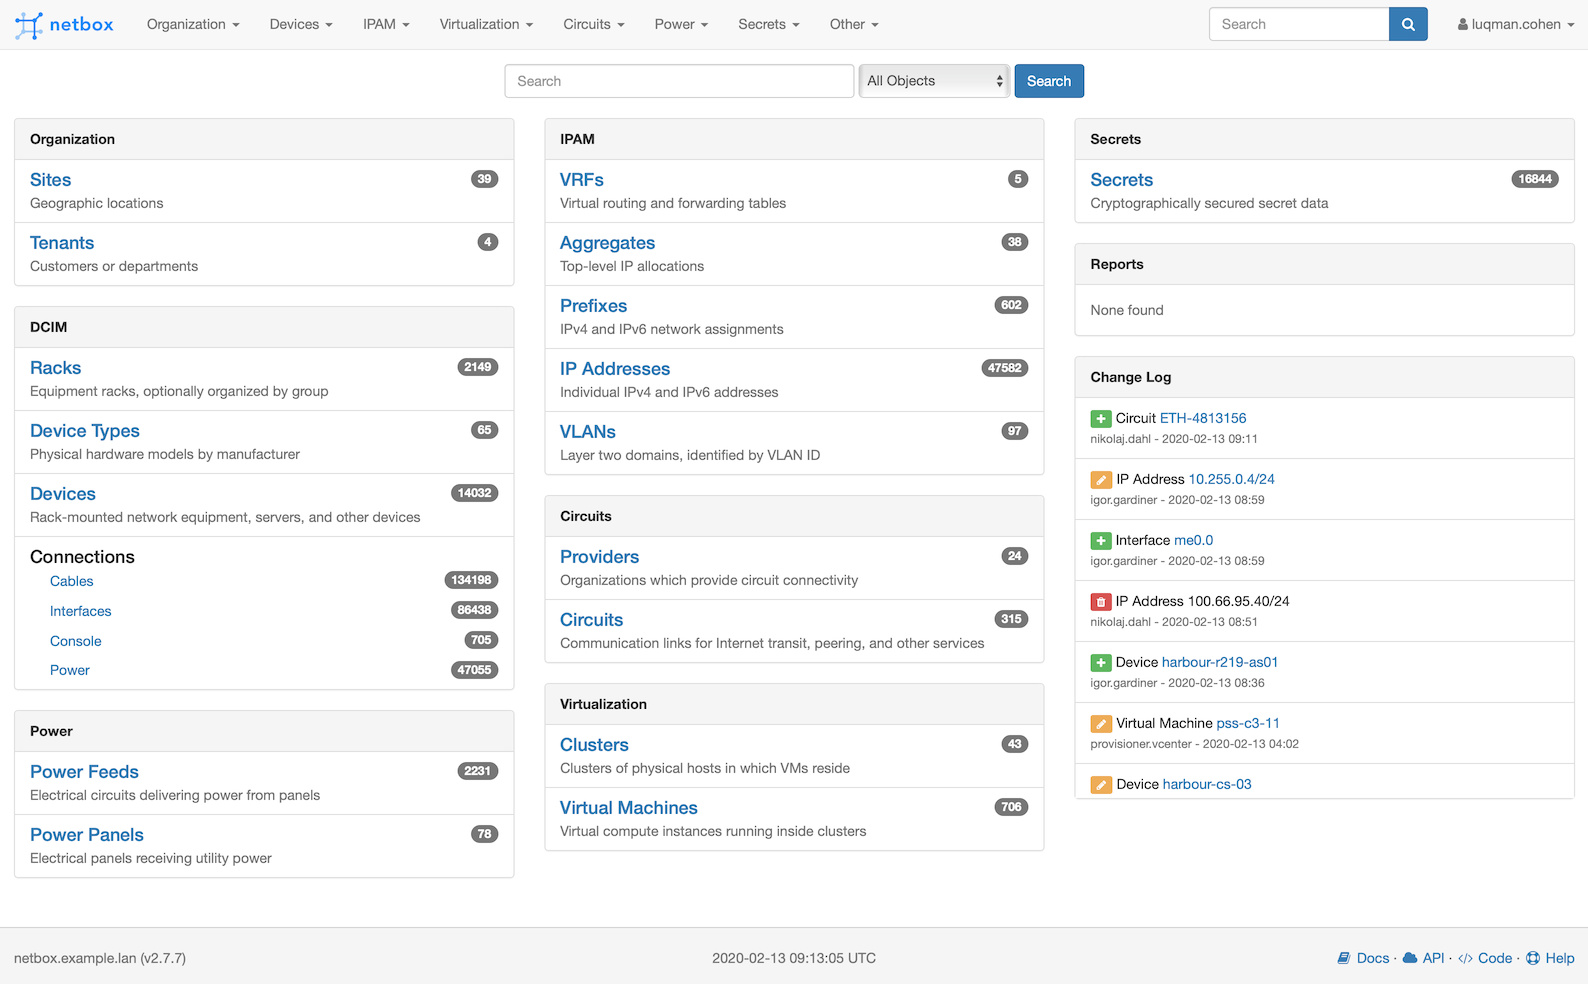
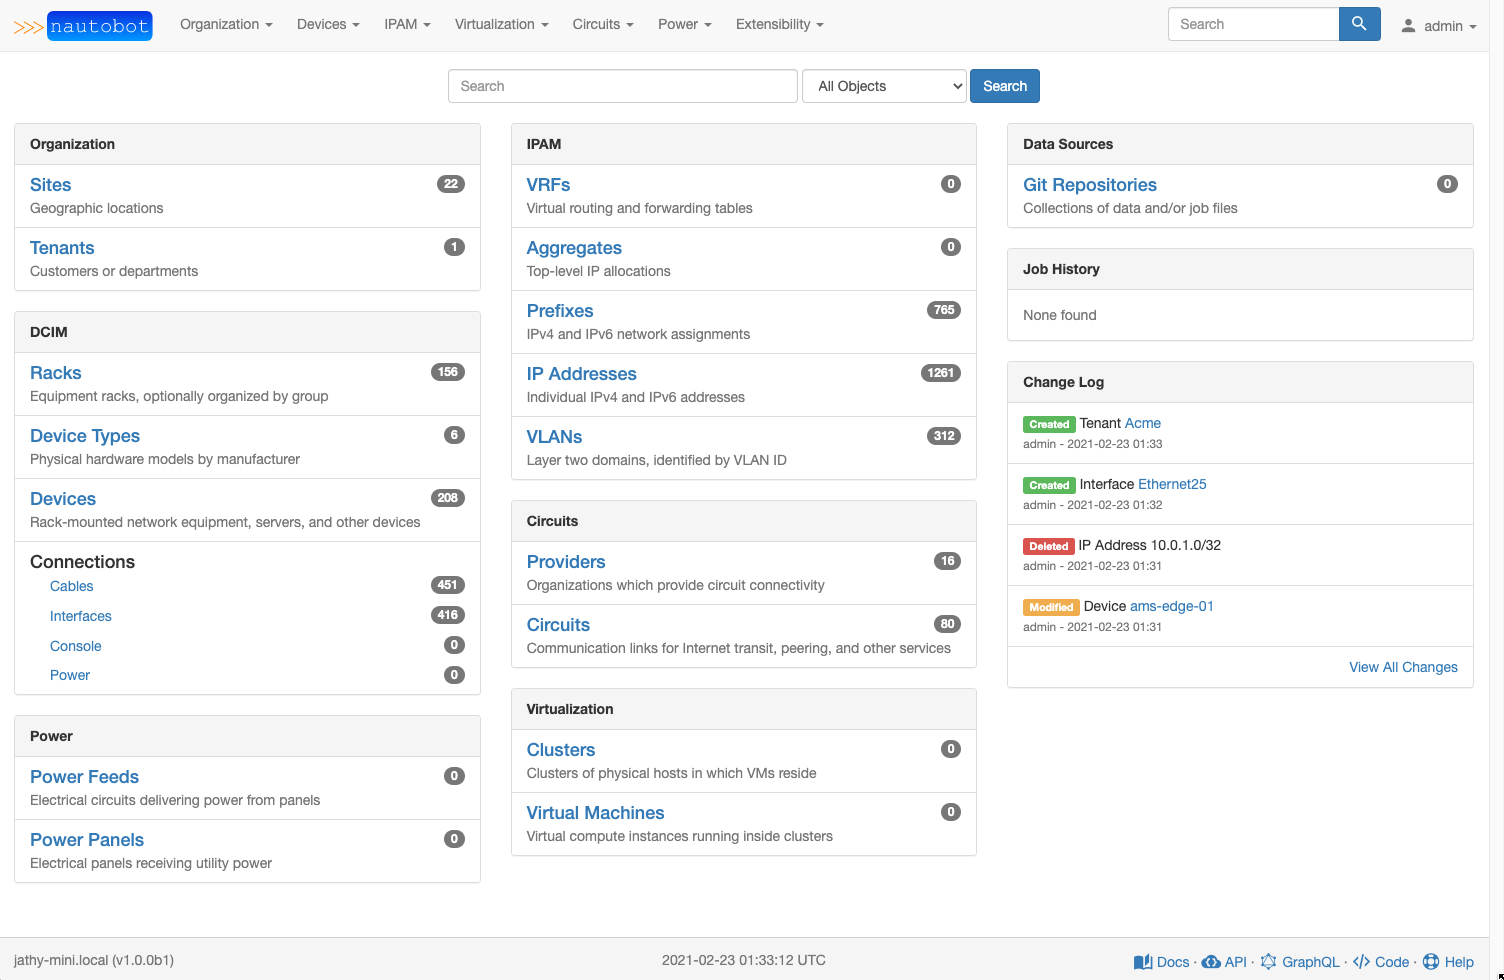
Update screenshots for README, install docs. (#224)
- Remove arch diagram from installation index
- Updated install screenshots

diff --git a/nautobot/docs/installation/index.md b/nautobot/docs/installation/index.md
@@ -19,10 +19,6 @@ The following sections detail how to set up a new instance of Nautobot:
 | PostgreSQL | 9.6             |
 | Redis      | 4.0             |
 
-Below is a simplified overview of the Nautobot application stack for reference:
-
-![Nautobot UI as seen by a non-authenticated user](../media/installation/nautobot_application_stack.png)
-
 ## Upgrading
 
 If you are upgrading from an existing installation, please consult the [upgrading guide](upgrading.md).
